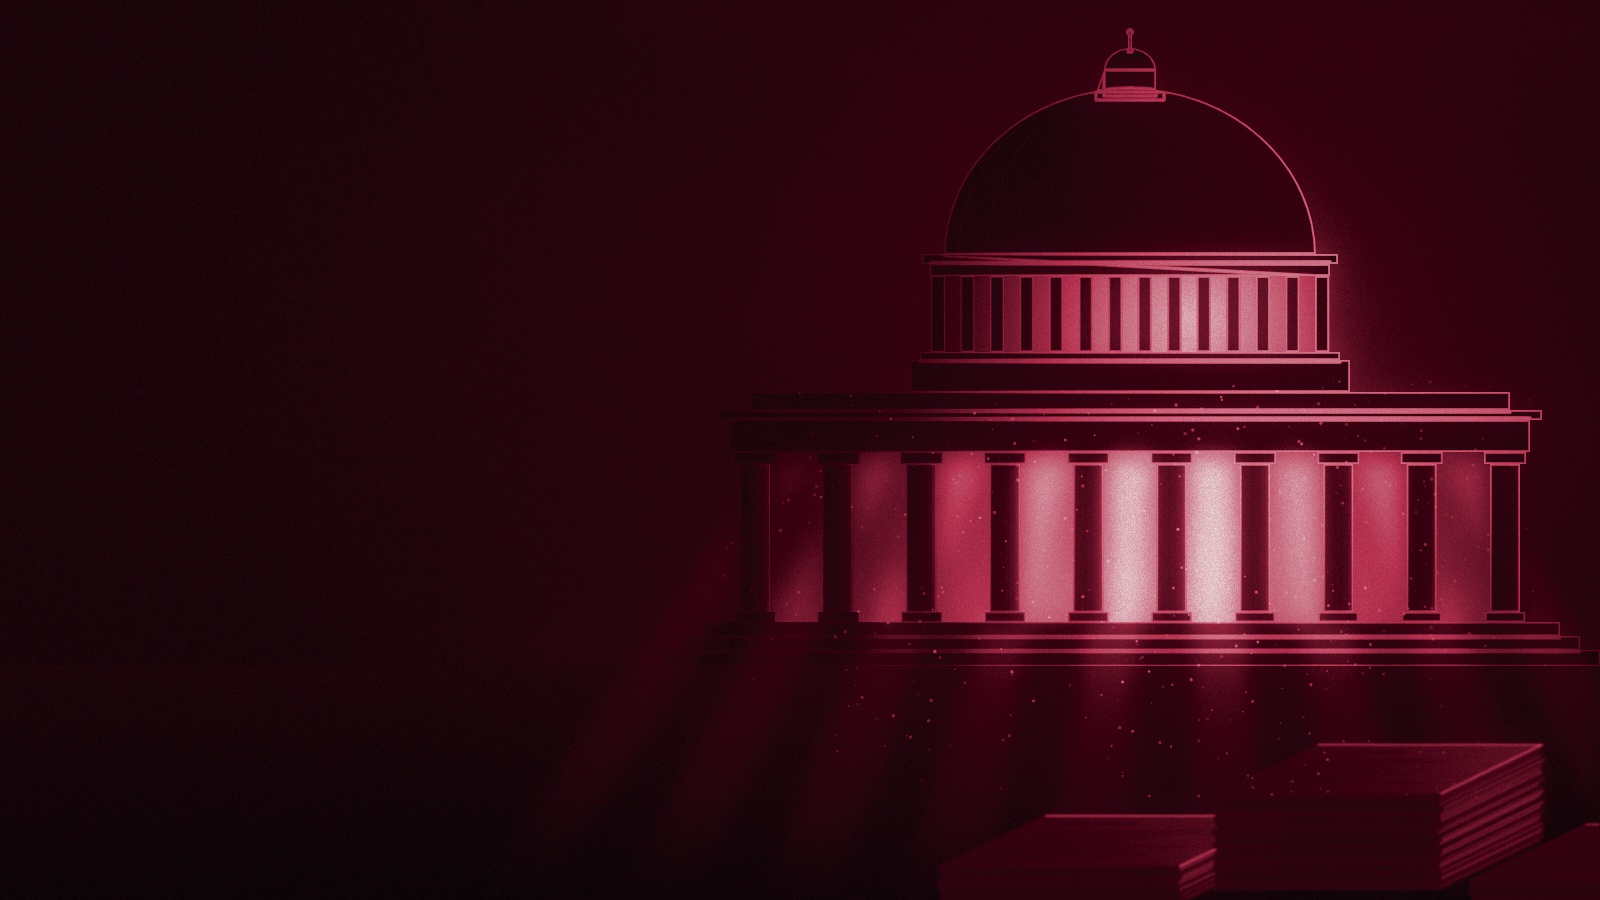
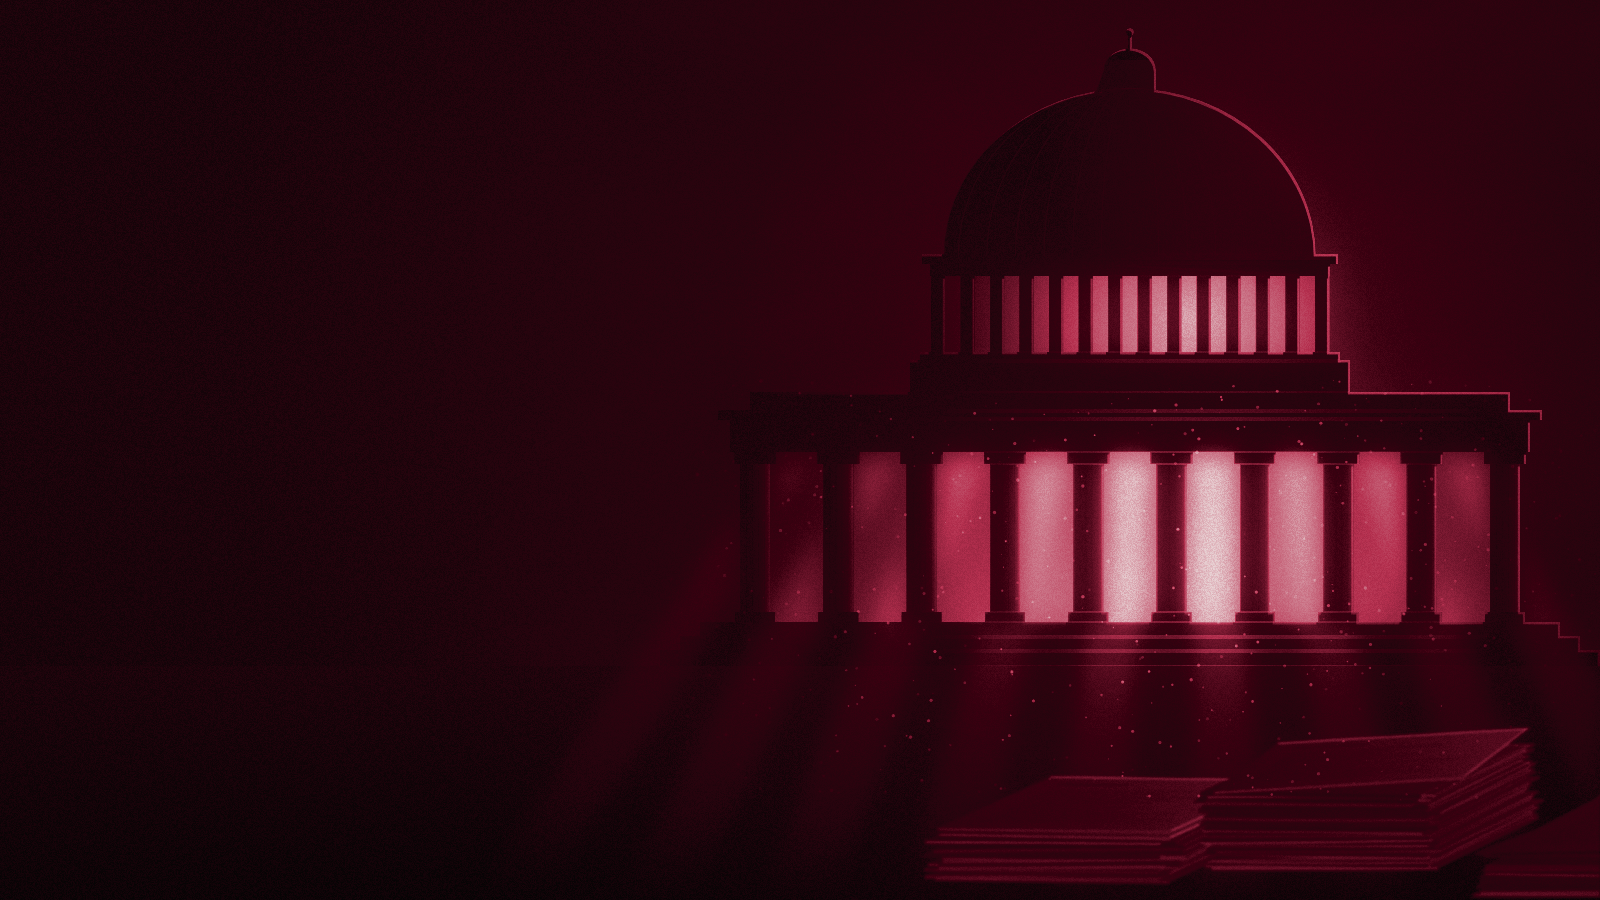
Add coded AI Build-Out cover; polish capitol-tech and space-race covers

diff --git a/docs/design/covers-src/covers.js b/docs/design/covers-src/covers.js
@@ -125,8 +125,12 @@ function capitol(ctx) {
   ctx.fillRect(dL, 276, 400, 76);
   ctx.restore();
 
-  // silhouette body
+  // silhouette body + directional rim (bright only on edges facing the light, upper right)
   ctx.fillStyle = L(8); ctx.fill(bld);
+  ctx.save(); ctx.clip(bld);
+  ctx.fillStyle = radial(ctx, LX + 330, 120, 760, 230, 0.9); ctx.fill(bld);
+  ctx.translate(-2.2, 2.6); ctx.fillStyle = L(8); ctx.fill(bld);
+  ctx.restore();
   // dome ribs + shading (very subtle)
   ctx.save(); ctx.clip(bld);
   ctx.fillStyle = radial(ctx, cx + 170, 120, 260, 120, 0.35);
@@ -144,9 +148,7 @@ function capitol(ctx) {
   }
   ctx.restore();
   // rim from the light behind/above right
-  rim(ctx, bld, radial(ctx, LX + 330, 140, 620, 255, 1), 2.0);
-  rim(ctx, bld, radial(ctx, LX + 330, 140, 1000, 255, 0.35), 1.0);
-  rim(ctx, bld, radial(ctx, LX + 60, 520, 360, 255, 0.5), 1.4);
+  rim(ctx, bld, radial(ctx, LX + 60, 540, 300, 255, 0.35), 1.0);
 
   // ground plane + fog bank at the foot of the steps
   const gg = ctx.createLinearGradient(0, 666, 0, H);
@@ -182,36 +184,47 @@ function capitol(ctx) {
 
   // foreground: stacks of paper filings, slightly defocused
   const fg = layer(), f = fg.getContext('2d');
-  function stack(x, y, w, d, n, seed) {
+  function stack(x, y, w, d, n, seed, loose = 0) {
     const r = mulberry32(seed);
-    const dx = d * 0.62, dy = -d * 0.30, th = 3.2;
-    for (let k = 0; k < n; k++) {
-      const yy = y - k * th, jx = (r() - 0.5) * 6, jd = (r() - 0.5) * 4;
-      const X = x + jx, A = [X, yy - th], B = [X + w, yy - th + jd * 0.2], C = [B[0] + dx, B[1] + dy], D = [X + dx, yy - th + dy];
-      // front edge (sheet thickness) + right side
-      f.fillStyle = L(30 + r() * 26);
-      f.beginPath(); f.moveTo(...A); f.lineTo(...B); f.lineTo(B[0], B[1] + th); f.lineTo(A[0], A[1] + th); f.fill();
-      f.fillStyle = L(60 + r() * 60);
-      f.beginPath(); f.moveTo(...B); f.lineTo(...C); f.lineTo(C[0], C[1] + th); f.lineTo(B[0], B[1] + th); f.fill();
-      if (k === n - 1) {
-        const tp = new Path2D(); tp.moveTo(...A); tp.lineTo(...B); tp.lineTo(...C); tp.lineTo(...D); tp.closePath();
-        const tg = f.createLinearGradient(A[0], A[1], C[0], C[1]);
-        tg.addColorStop(0, L(44)); tg.addColorStop(1, L(92));
-        f.fillStyle = tg; f.fill(tp);
-        // illegible typeset lines, mapped onto the sheet
-        f.save(); f.setTransform((B[0] - A[0]) / 100, (B[1] - A[1]) / 100, (D[0] - A[0]) / 100, (D[1] - A[1]) / 100, A[0], A[1]);
-        f.fillStyle = L(0, 0.28);
-        f.fillRect(10, 82, 36, 4);
-        for (let li = 0; li < 11; li++) f.fillRect(10, 70 - li * 5.4, 40 + r() * 44, 1.7);
+    const th = 2.6;
+    const S = (u, v, k) => [x + u + v * 0.62, y - k * th - v * 0.30];
+    let drift = 0;
+    for (let k = 0; k < n + loose; k++) {
+      const isLoose = k >= n;
+      drift += (r() - 0.5) * 5;
+      const ang = (r() - 0.5) * (isLoose ? 0.6 : 0.09);
+      const ox = drift + (r() - 0.5) * (isLoose ? 50 : 15), ov = (r() - 0.5) * (isLoose ? 40 : 9);
+      const ca = Math.cos(ang), sa = Math.sin(ang);
+      const pt = (u, v) => { u -= w / 2; v -= d / 2; return S(u * ca - v * sa + w / 2 + ox, u * sa + v * ca + d / 2 + ov, isLoose ? n + (k - n) * 1.5 : k); };
+      // a sheet may sag slightly: bow the near edge
+      const A = pt(0, 0), B = pt(w, 0), C = pt(w, d), D = pt(0, d);
+      const sag = (r() - 0.3) * 3;
+      // thickness edge
+      f.fillStyle = L(r() < 0.5 ? 75 + r() * 40 : 22 + r() * 20);
+      f.beginPath(); f.moveTo(...A); f.quadraticCurveTo((A[0] + B[0]) / 2, (A[1] + B[1]) / 2 + sag, ...B);
+      f.lineTo(B[0], B[1] + th); f.quadraticCurveTo((A[0] + B[0]) / 2, (A[1] + B[1]) / 2 + sag + th, A[0], A[1] + th); f.fill();
+      const tp = new Path2D(); tp.moveTo(...A); tp.quadraticCurveTo((A[0] + B[0]) / 2, (A[1] + B[1]) / 2 + sag, ...B);
+      tp.lineTo(...C); tp.lineTo(...D); tp.closePath();
+      const tg = f.createLinearGradient(A[0], A[1], C[0], C[1]);
+      const top = k === n + loose - 1 || isLoose;
+      tg.addColorStop(0, L(top ? 40 : 30)); tg.addColorStop(1, L(top ? 88 : 60));
+      f.fillStyle = tg; f.fill(tp);
+      if (top) {
+        f.save(); f.clip(tp);
+        f.setTransform((B[0] - A[0]) / 100, (B[1] - A[1]) / 100, (D[0] - A[0]) / 100, (D[1] - A[1]) / 100, A[0], A[1]);
+        f.fillStyle = L(0, 0.26);
+        f.fillRect(10, 84, 30, 4);
+        for (let li = 0; li < 12; li++) f.fillRect(10, 74 - li * 5.4, 36 + r() * 46, 1.6);
         f.restore();
-        f.strokeStyle = L(230, 0.9); f.lineWidth = 1.6;
-        f.beginPath(); f.moveTo(...D); f.lineTo(...C); f.lineTo(...B); f.stroke();
       }
+      // light catches the far and right edges, softly
+      f.strokeStyle = L(200 + r() * 40, top ? 0.75 : 0.22 + r() * 0.25); f.lineWidth = top ? 1.3 : 0.9;
+      f.beginPath(); f.moveTo(...D); f.lineTo(...C); f.lineTo(...B); f.stroke();
     }
   }
-  stack(940, 905, 240, 170, 12, 7);
-  stack(1215, 890, 225, 165, 30, 8);
-  stack(1470, 915, 250, 185, 11, 9);
+  stack(930, 880, 240, 170, 16, 7, 2);
+  stack(1215, 868, 225, 165, 30, 8, 1);
+  stack(1475, 895, 250, 185, 12, 9, 3);
   // a single loose sheet
   const fb = layer(), fbc = fb.getContext('2d'); fbc.filter = 'blur(1.2px)'; fbc.drawImage(fg, 0, 0);
   ctx.drawImage(fb, 0, 0);
@@ -598,8 +611,189 @@ function space(ctx) {
   glow(ctx, 640, 990, 380, 120, 0.18);
 }
 
+
+// Night side of the planet: after bloom, pull the unlit hemisphere back toward black.
+function spaceNight(ctx) {
+  const PX = 1440, PY = 400, R = 300;
+  ctx.save();
+  ctx.beginPath(); ctx.arc(PX, PY, R + 1, 0, 7); ctx.clip();
+  ctx.globalCompositeOperation = 'multiply';
+  const g = ctx.createRadialGradient(PX + R * 0.6, PY + R * 0.3, R * 0.05, PX + R * 0.45, PY + R * 0.22, R * 1.12);
+  g.addColorStop(0, 'rgb(14,14,14)'); g.addColorStop(0.5, 'rgb(40,40,40)'); g.addColorStop(0.8, 'rgb(150,150,150)'); g.addColorStop(1, 'rgb(255,255,255)');
+  ctx.fillStyle = g; ctx.fillRect(PX - R, PY - R, 2 * R, 2 * R);
+  ctx.restore();
+}
+
+// ---------- scene 5: ai-build-out (sapphire) ----------
+function chip(ctx) {
+  const rnd = mulberry32(5505), nz = makeNoise(55);
+  // background: the server aisle, defocused and dimmed (data-centre depth)
+  const bg = layer(), bc = bg.getContext('2d', { willReadFrequently: true });
+  servers(bc);
+  ctx.fillStyle = L(6); ctx.fillRect(0, 0, W, H);
+  ctx.save(); ctx.filter = 'blur(9px) brightness(0.55)'; ctx.globalAlpha = 1;
+  ctx.drawImage(bg, 0, 0, W, H, -60, -260, W * 1.1, H * 1.1); ctx.restore();
+
+  // circuit board plane in perspective
+  const VX = 1060, VY = 140, F = 820, HC = 2.1;
+  const P = (X, Z) => [VX + F * X / Z, VY + F * HC / Z];
+  const fogK = z => 1 - Math.exp(-z / 9);
+  const board = new Path2D();
+  { const a = P(-12, 1.0), b = P(12, 1.0), c = P(12, 40), d = P(-12, 40);
+    board.moveTo(...a); board.lineTo(...b); board.lineTo(...c); board.lineTo(...d); board.closePath(); }
+  const bgd = ctx.createLinearGradient(0, VY + 20, 0, H);
+  bgd.addColorStop(0, L(10, 0)); bgd.addColorStop(0.3, L(10, 0.9)); bgd.addColorStop(1, L(7, 1));
+  ctx.fillStyle = bgd; ctx.fill(board);
+  // faint fibreglass weave texture on the board
+  ctx.save(); ctx.clip(board); ctx.globalCompositeOperation = 'lighter';
+  for (let z = 1.2; z < 30; z += 0.08) {
+    const a = P(-12, z), b = P(12, z);
+    ctx.strokeStyle = L(255, 0.012 * (1 - fogK(z))); ctx.lineWidth = 1;
+    ctx.beginPath(); ctx.moveTo(...a); ctx.lineTo(...b); ctx.stroke();
+  }
+  ctx.restore();
+
+  const CXw = 0.5, CZ = 5.0, CS = 1.0, CH = 0.16; // chip centre/half-size/height in world units
+  // traces: manhattan routes with 45-degree jogs leaving each side of the chip
+  const tl = layer(), t = tl.getContext('2d'); t.lineCap = 'round'; t.lineJoin = 'round';
+  const vias = [];
+  function route(pts, bright) {
+    const sp = pts.map(([X, Z]) => P(X, Z));
+    // segment-wise to fade with depth and keep the left third calm
+    for (let i = 0; i < sp.length - 1; i++) {
+      const [X0, Z0] = pts[i];
+      const zf = 1 - fogK(Math.max(Z0, 1.2)) * 0.6;
+      const calm = smooth(200, 650, Math.min(sp[i][0], sp[i + 1][0]));
+      t.strokeStyle = L(255, bright * zf * (0.15 + 0.85 * calm));
+      t.lineWidth = Math.max(0.8, F * 0.012 / Math.max(Z0, 1.2));
+      t.beginPath(); t.moveTo(...sp[i]); t.lineTo(...sp[i + 1]); t.stroke();
+    }
+  }
+  const N = 14;
+  for (let side = 0; side < 4; side++) {
+    for (let i = 0; i < N; i++) {
+      const f = (i + 0.5) / N * 2 - 1; // -1..1 along the edge
+      const along = f * CS * 0.86;
+      const bright = 0.25 + Math.pow(rnd(), 2) * 0.75;
+      const out = 0.25 + rnd() * 0.5, jog = (0.2 + rnd() * 0.6) * Math.sign(f || 0.1), far = 30;
+      let pts;
+      if (side === 0) { // near edge -> toward camera
+        const x = CXw + along, z = CZ - CS;
+        pts = [[x, z], [x, z - out], [x + jog * 0.5, z - out - Math.abs(jog) * 0.5], [x + jog * 0.5 + f * 2.2, 1.0]];
+      } else if (side === 1) { // far edge -> into the distance
+        const x = CXw + along, z = CZ + CS;
+        pts = [[x, z], [x, z + out], [x + jog, z + out + Math.abs(jog)], [x + jog + f * 3, far]];
+      } else { // left / right edges -> sideways out of frame
+        const s = side === 2 ? -1 : 1;
+        const z = CZ + along, x = CXw + s * CS;
+        pts = [[x, z], [x + s * out, z], [x + s * (out + Math.abs(jog)), z + jog], [x + s * 14, z + jog + f * 1.5]];
+      }
+      route(pts, bright);
+      vias.push([...pts[1], bright]);
+      if (rnd() < 0.3) vias.push([...pts[2], bright]);
+    }
+  }
+  // a few long bus lines running past the chip
+  for (let k = 0; k < 6; k++) {
+    const z = 2.2 + k * 0.18; route([[-0.2, z], [1.0, z], [1.4, z - 0.4], [12, z - 0.4]], 0.3);
+  }
+  for (const [X, Z, b] of vias) {
+    const [x, y] = P(X, Z), r = Math.max(1, F * 0.022 / Z);
+    t.fillStyle = L(255, b * 0.9 * smooth(200, 650, x)); t.beginPath(); t.ellipse(x, y, r, r * 0.45, 0, 0, 7); t.fill();
+  }
+  // signal pulses travelling along some traces
+  ctx.save(); ctx.globalCompositeOperation = 'lighter';
+  ctx.drawImage(tl, 0, 0);
+  ctx.filter = 'blur(6px)'; ctx.globalAlpha = 0.9; ctx.drawImage(tl, 0, 0);
+  ctx.filter = 'blur(22px)'; ctx.globalAlpha = 0.6; ctx.drawImage(tl, 0, 0);
+  ctx.restore();
+
+  // small SMD parts scattered near the chip
+  for (let i = 0; i < 40; i++) {
+    const X = CXw + (rnd() - 0.5) * 5, Z = CZ + (rnd() - 0.5) * 5;
+    if (Math.abs(X - CXw) < CS * 1.4 && Math.abs(Z - CZ) < CS * 1.4) continue;
+    if (Z < 1.6) continue;
+    const w = 0.05 + rnd() * 0.06, d = 0.025 + rnd() * 0.03;
+    const q = [P(X - w, Z - d), P(X + w, Z - d), P(X + w, Z + d), P(X - w, Z + d)];
+    const hgt = F * 0.03 / Z;
+    const p = new Path2D(); p.moveTo(q[0][0], q[0][1] - hgt); p.lineTo(q[1][0], q[1][1] - hgt); p.lineTo(q[2][0], q[2][1] - hgt); p.lineTo(q[3][0], q[3][1] - hgt); p.closePath();
+    ctx.fillStyle = L(10); ctx.fillRect(q[0][0], q[0][1] - hgt, q[1][0] - q[0][0], hgt);
+    ctx.fillStyle = L(22); ctx.fill(p);
+    ctx.strokeStyle = L(200, 0.5 * (1 - fogK(Z)) * smooth(200, 650, q[0][0])); ctx.lineWidth = 0.8;
+    ctx.beginPath(); ctx.moveTo(q[3][0], q[3][1] - hgt); ctx.lineTo(q[2][0], q[2][1] - hgt); ctx.lineTo(q[1][0], q[1][1] - hgt); ctx.stroke();
+  }
+
+  // the chip: package with height, die, pins, one rim light from back-right
+  const lift = (pt, h, Z = CZ) => [pt[0], pt[1] - F * h / Z];
+  const c00 = P(CXw - CS, CZ - CS), c10 = P(CXw + CS, CZ - CS), c11 = P(CXw + CS, CZ + CS), c01 = P(CXw - CS, CZ + CS);
+  const t00 = lift(c00, CH, CZ - CS), t10 = lift(c10, CH, CZ - CS), t11 = lift(c11, CH, CZ + CS), t01 = lift(c01, CH, CZ + CS);
+  // contact shadow + glow pool under the chip
+  glow(ctx, (c00[0] + c11[0]) / 2, (c00[1] + c11[1]) / 2 + 10, 380, 120, 0.25);
+  // pins along the near and side edges
+  for (let i = 0; i < 22; i++) {
+    const f = (i + 0.5) / 22 * 2 - 1;
+    for (const [a, b, bri] of [[[CXw + f * CS * 0.92, CZ - CS], [CXw + f * CS * 0.92, CZ - CS - 0.09], 0.5],
+                               [[CXw + CS, CZ + f * CS * 0.92], [CXw + CS + 0.09, CZ + f * CS * 0.92], 0.9],
+                               [[CXw - CS, CZ + f * CS * 0.92], [CXw - CS - 0.09, CZ + f * CS * 0.92], 0.25]]) {
+      const pa = P(...a), pb = P(...b);
+      ctx.strokeStyle = L(210, bri); ctx.lineWidth = Math.max(1, F * 0.016 / a[1]);
+      ctx.beginPath(); ctx.moveTo(pa[0], pa[1] - 2); ctx.lineTo(...pb); ctx.stroke();
+    }
+  }
+  // sides
+  const front = new Path2D(); front.moveTo(...c00); front.lineTo(...c10); front.lineTo(...t10); front.lineTo(...t00); front.closePath();
+  const right = new Path2D(); right.moveTo(...c10); right.lineTo(...c11); right.lineTo(...t11); right.lineTo(...t10); right.closePath();
+  ctx.fillStyle = L(14); ctx.fill(front);
+  const rg = ctx.createLinearGradient(c10[0], 0, c11[0], 0); rg.addColorStop(0, L(30)); rg.addColorStop(1, L(70));
+  ctx.fillStyle = rg; ctx.fill(right);
+  // top face
+  const topF = new Path2D(); topF.moveTo(...t00); topF.lineTo(...t10); topF.lineTo(...t11); topF.lineTo(...t01); topF.closePath();
+  const tg = ctx.createLinearGradient(t00[0], t00[1], t11[0], t11[1]);
+  tg.addColorStop(0, L(14)); tg.addColorStop(0.7, L(26)); tg.addColorStop(1, L(60));
+  ctx.fillStyle = tg; ctx.fill(topF);
+  // die (inset, slightly raised, with a specular sweep)
+  const di = 0.58, DH = CH + 0.03;
+  const d00 = lift(P(CXw - di, CZ - di), DH, CZ - di), d10 = lift(P(CXw + di, CZ - di), DH, CZ - di), d11 = lift(P(CXw + di, CZ + di), DH, CZ + di), d01 = lift(P(CXw - di, CZ + di), DH, CZ + di);
+  const die = new Path2D(); die.moveTo(...d00); die.lineTo(...d10); die.lineTo(...d11); die.lineTo(...d01); die.closePath();
+  ctx.fillStyle = L(18); ctx.fill(die);
+  ctx.save(); ctx.clip(die);
+  // die microstructure grid
+  ctx.setTransform((d10[0] - d00[0]) / 100, (d10[1] - d00[1]) / 100, (d01[0] - d00[0]) / 100, (d01[1] - d00[1]) / 100, d00[0], d00[1]);
+  for (let gx = 0; gx < 100; gx += 12.5) for (let gy = 0; gy < 100; gy += 12.5) {
+    ctx.fillStyle = L(60 + rnd() * 50, 0.35); ctx.fillRect(gx + 1.2, gy + 1.2, 10, 10);
+  }
+  ctx.setTransform(1, 0, 0, 1, 0, 0);
+  const sp = ctx.createLinearGradient(d01[0], d01[1], d10[0], d10[1]);
+  sp.addColorStop(0, L(255, 0)); sp.addColorStop(0.55, L(255, 0)); sp.addColorStop(0.75, L(255, 0.35)); sp.addColorStop(0.85, L(255, 0)); sp.addColorStop(1, L(255, 0));
+  ctx.globalCompositeOperation = 'lighter'; ctx.fillStyle = sp; ctx.fill(die);
+  ctx.restore();
+  // rim light: far + right edges of package and die
+  ctx.save(); ctx.globalCompositeOperation = 'lighter'; ctx.lineCap = 'round';
+  ctx.strokeStyle = L(255, 0.95); ctx.lineWidth = 2;
+  ctx.beginPath(); ctx.moveTo(...t01); ctx.lineTo(...t11); ctx.lineTo(...t10); ctx.stroke();
+  ctx.strokeStyle = L(255, 0.6); ctx.lineWidth = 1.4;
+  ctx.beginPath(); ctx.moveTo(...d01); ctx.lineTo(...d11); ctx.lineTo(...d10); ctx.stroke();
+  ctx.strokeStyle = L(255, 0.25); ctx.lineWidth = 1;
+  ctx.beginPath(); ctx.moveTo(...t00); ctx.lineTo(...t10); ctx.stroke();
+  ctx.restore();
+  // rim light source glow behind, upper right
+  glow(ctx, t11[0] + 60, t11[1] - 40, 300, 255, 0.18);
+
+  // shallow depth of field: blur the near foreground band slightly
+  const snap = layer(); snap.getContext('2d').drawImage(ctx.canvas, 0, 0);
+  const near = layer(), nc = near.getContext('2d'); nc.filter = 'blur(3px)'; nc.drawImage(snap, 0, 0);
+  nc.filter = 'none'; nc.globalCompositeOperation = 'destination-in';
+  const ng = nc.createLinearGradient(0, 720, 0, H); ng.addColorStop(0, L(255, 0)); ng.addColorStop(1, L(255, 1));
+  nc.fillStyle = ng; nc.fillRect(0, 0, W, H);
+  ctx.drawImage(near, 0, 0);
+  // left-third calm
+  const dk = ctx.createLinearGradient(0, 0, 620, 0);
+  dk.addColorStop(0, 'rgba(0,0,0,0.5)'); dk.addColorStop(1, 'rgba(0,0,0,0)');
+  ctx.fillStyle = dk; ctx.fillRect(0, 0, 620, H);
+}
+
 // ---------- post: bloom, duotone LUT, grain, vignette ----------
-function finish(ctx, tone, seed, bloom = [0.45, 0.22]) {
+function finish(ctx, tone, seed, bloom = [0.45, 0.22], post = null) {
   const src = ctx.canvas;
   const b1 = layer(), c1 = b1.getContext('2d');
   c1.filter = 'contrast(2.4) brightness(0.9) blur(14px)'; c1.drawImage(src, 0, 0);
@@ -609,6 +803,7 @@ function finish(ctx, tone, seed, bloom = [0.45, 0.22]) {
   ctx.globalAlpha = bloom[0]; ctx.drawImage(b1, 0, 0);
   ctx.globalAlpha = bloom[1]; ctx.drawImage(b2, 0, 0);
   ctx.restore();
+  if (post) post(ctx);
 
   const deep = hex(TONES[tone].deep), midc = hex(TONES[tone].mid), paper = hex(PAPER);
   const stops = [
@@ -650,11 +845,12 @@ const SCENES = {
   'capitol-tech':  { fn: capitol, tone: 'burgundy', seed: 1 },
   'big-tech':      { fn: servers, tone: 'emerald', seed: 2 },
   'picks-shovels': { fn: tools,   tone: 'amber',   seed: 3 },
-  'space-race':    { fn: space,   tone: 'plum',    seed: 4, bloom: [0.3, 0.18] },
+  'space-race':    { fn: space,   tone: 'plum',    seed: 4, bloom: [0.3, 0.12], post: spaceNight },
+  'ai-build-out':  { fn: chip,    tone: 'sapphire', seed: 5, bloom: [0.5, 0.2] },
 };
 const slug = (location.hash || '#capitol-tech').slice(1);
 const sc = SCENES[slug];
 const ctx = document.getElementById('c').getContext('2d', { willReadFrequently: true });
 sc.fn(ctx);
-finish(ctx, sc.tone, sc.seed, sc.bloom);
+finish(ctx, sc.tone, sc.seed, sc.bloom, sc.post);
 document.title = 'done';

diff --git a/docs/design/covers-src/contact-sheet.html b/docs/design/covers-src/contact-sheet.html
@@ -9,7 +9,7 @@
   html,body { margin:0; background:var(--bg); color:var(--paper); font-family:Inter, -apple-system, "Helvetica Neue", Arial, sans-serif; }
   .wrap { padding:32px 30px; }
   h1 { font-size:13px; font-weight:600; letter-spacing:.08em; text-transform:uppercase; color:var(--text2); margin:0 0 14px; }
-  .row { display:grid; grid-template-columns:repeat(4, 390px); gap:20px; margin-bottom:34px; }
+  .row { display:grid; grid-template-columns:repeat(5, 390px); gap:20px; margin-bottom:34px; }
   .raw img { width:390px; height:219px; display:block; border-radius:6px; }
   .raw span { display:block; font-size:12px; color:var(--text2); margin-top:8px; }
   .card { width:390px; border-radius:14px; overflow:hidden; background:#141414; border:1px solid #232323; }
@@ -30,6 +30,7 @@
 </div>
 <script>
   const covers = [
+    ['ai-build-out', 'The AI Build-Out', 'Sapphire', 'Chips, compute, data centres'],
     ['capitol-tech', 'Capitol Tech', 'Burgundy', 'Politician-disclosed holdings'],
     ['big-tech', 'Big Tech, Trimmed', 'Emerald', 'Megacaps, equal-weighted'],
     ['picks-shovels', 'Picks & Shovels', 'Amber', 'Chips, power, tooling'],

diff --git a/docs/design/covers-src/README.md b/docs/design/covers-src/README.md
@@ -7,6 +7,7 @@ These are code-generated cover masters for the seed baskets. They follow the duo
 | `capitol-tech` | burgundy | A generic domed colonnade, backlit, with light beams falling through the columns and paper filings in the foreground |
 | `big-tech` | emerald | Server-rack aisle in one-point perspective, status LEDs, depth fog and a light at the end of the aisle |
 | `picks-shovels` | amber | A crossed shovel and pickaxe in front of layered ridges at gold hour, with dust in the light |
+| `ai-build-out` | sapphire | A silicon chip on a circuit board in perspective, glowing traces running out of frame, rim light from the back right, and the server aisle defocused behind |
 | `space-race` | plum | A ringed planet (shaded per pixel) at the frame edge and a rocket trail arcing through a star field |
 
 ## How it works
@@ -18,7 +19,7 @@ These are code-generated cover masters for the seed baskets. They follow the duo
 
 ## Render
 ```
-bash docs/design/covers-src/render.sh            # all four + contact sheet
+bash docs/design/covers-src/render.sh            # all five + contact sheet
 bash docs/design/covers-src/render.sh big-tech   # one cover
 ```
 This uses headless Chrome from `/Applications` and `cwebp` from Homebrew.
@@ -27,7 +28,7 @@ The output goes to `apps/web/public/brand/covers/`:
 - `<slug>.png` (1600×900)
 - `<slug>.webp` (1600×900, q84, ≤ 95 KB)
 - `<slug>-800.webp` (800×450)
-- `contact-sheet.png` (the raw covers plus a card mock with a 60% bottom scrim and Inter paper text)
+- `contact-sheet.png` (the 5 raw covers plus a card mock with a 60% bottom scrim and Inter paper text)
 
 ## Credits
 All original code. There are no external images or models, so no licence is needed.
